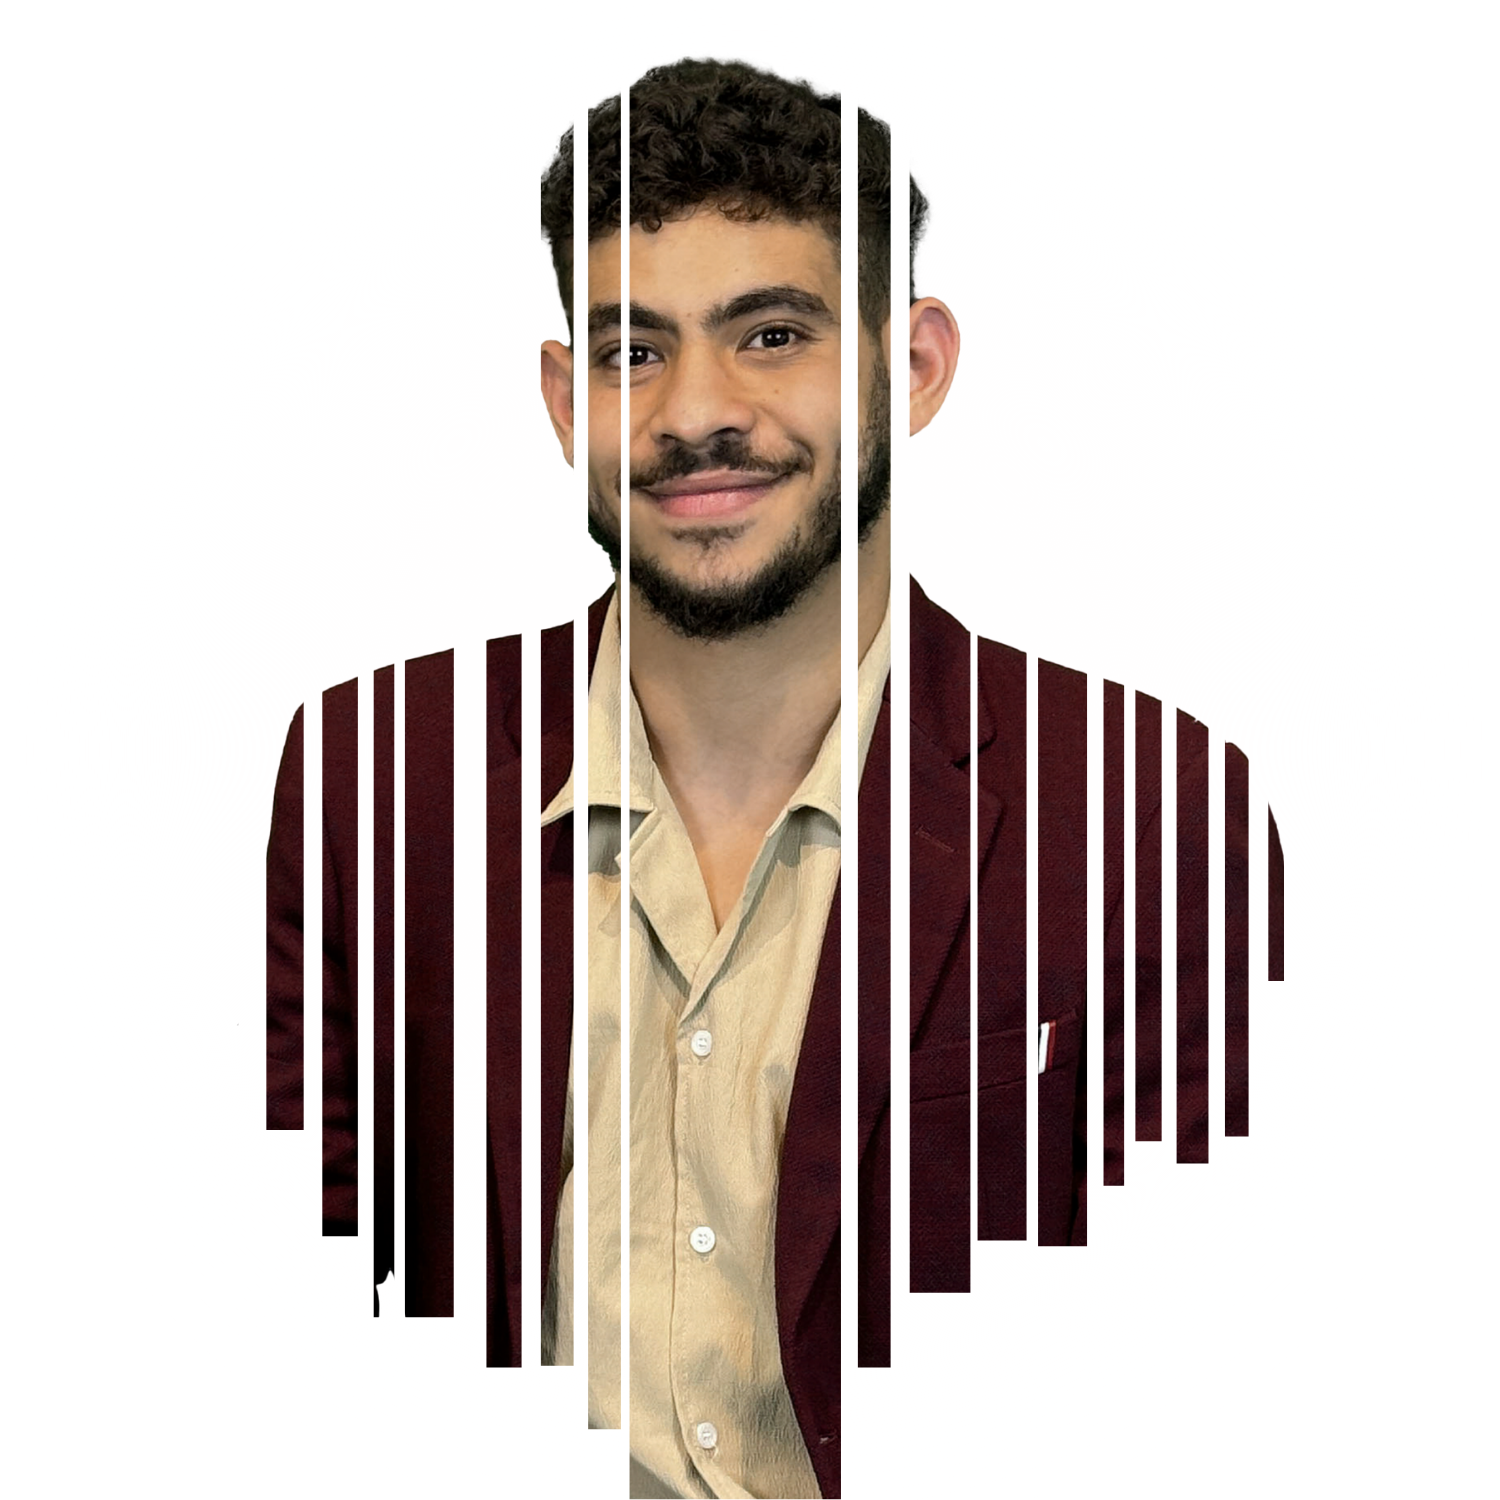
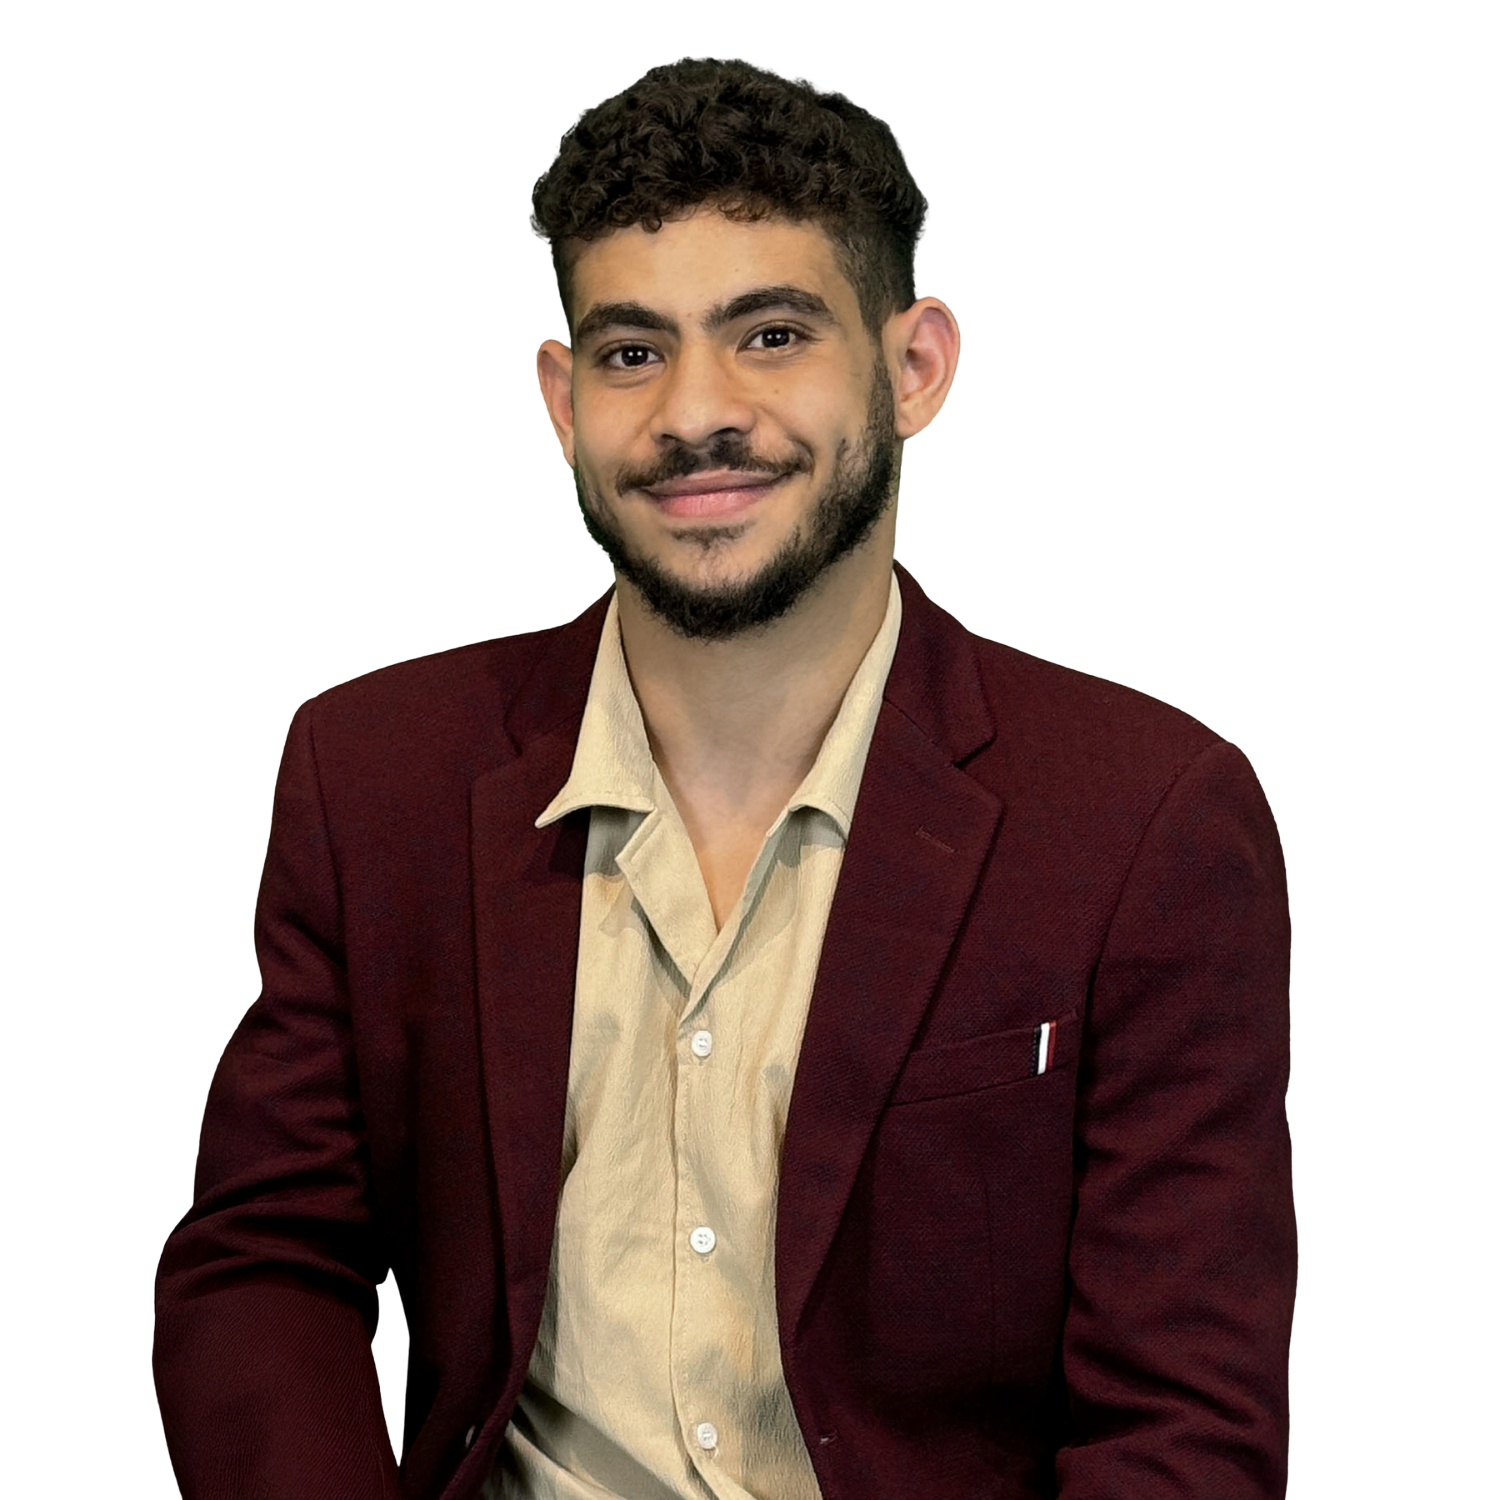
v2.0

Changed region(s): [[0.092, 0.0613, 0.4293, 1.0], [0.552, 0.0613, 0.8893, 1.0], [0.46, 0.0307, 0.5213, 0.0613]]

diff --git a/index.html b/index.html
@@ -442,7 +442,7 @@ nav {
 }
 
 .hero-title {
-    font-size: 4rem;
+    font-size: 5rem;
     margin-bottom: 30px;
     color: var(--soft-ivory);
     font-weight: 600;
@@ -464,6 +464,8 @@ nav {
     opacity: 0.9;
     position: relative;
     z-index: 10;
+    letter-spacing: 2px;
+    text-transform: uppercase;
 }
 
 .cta-button {
@@ -682,6 +684,108 @@ nav {
     justify-content: center;
     align-items: center;
 }
+
+/* ✨ CALM & MINIMAL PROFILE CARD ✨ */
+.holo-card {
+    position: relative;
+    width: 300px;
+    height: 380px;
+    border-radius: 24px;
+    overflow: hidden;
+    background: 
+        linear-gradient(135deg, 
+            rgba(42, 46, 51, 0.95) 0%, 
+            rgba(74, 38, 115, 0.1) 100%);
+    backdrop-filter: blur(10px);
+    border: 1px solid rgba(236, 233, 226, 0.1);
+    box-shadow: 
+        0 8px 32px rgba(0, 0, 0, 0.12),
+        0 2px 8px rgba(0, 0, 0, 0.08);
+    transition: all 0.6s cubic-bezier(0.25, 0.46, 0.45, 0.94);
+    animation: gentleBreath 6s ease-in-out infinite;
+}
+
+@keyframes gentleBreath {
+    0%, 100% { 
+        transform: scale(1);
+        box-shadow: 
+            0 8px 32px rgba(0, 0, 0, 0.12),
+            0 2px 8px rgba(0, 0, 0, 0.08);
+    }
+    50% { 
+        transform: scale(1.01);
+        box-shadow: 
+            0 12px 40px rgba(0, 0, 0, 0.15),
+            0 4px 12px rgba(0, 0, 0, 0.1);
+    }
+}
+
+.holo-photo {
+    width: 100%;
+    height: 100%;
+    object-fit: cover;
+    opacity: 0.95;
+    transition: all 0.3s ease;
+    filter: saturate(0.9) brightness(1.1);
+}
+
+/* Minimal floating particles */
+.particle {
+    position: absolute;
+    width: 3px;
+    height: 3px;
+    background: radial-gradient(circle, rgba(236, 233, 226, 0.6) 0%, transparent 70%);
+    border-radius: 50%;
+    pointer-events: none;
+    z-index: 2;
+}
+
+.particle:nth-child(1) {
+    top: 20%;
+    left: 15%;
+    animation: gentleFloat 8s ease-in-out infinite;
+}
+
+.particle:nth-child(2) {
+    top: 60%;
+    right: 20%;
+    animation: gentleFloat 10s ease-in-out infinite 2s;
+}
+
+.particle:nth-child(3) {
+    bottom: 30%;
+    left: 25%;
+    animation: gentleFloat 12s ease-in-out infinite 4s;
+}
+
+@keyframes gentleFloat {
+    0%, 100% { 
+        transform: translateY(0px) translateX(0px);
+        opacity: 0.3;
+    }
+    50% { 
+        transform: translateY(-15px) translateX(5px);
+        opacity: 0.7;
+    }
+}
+
+.holo-card:hover {
+    transform: translateY(-8px) scale(1.02);
+    box-shadow: 
+        0 20px 60px rgba(0, 0, 0, 0.15),
+        0 8px 24px rgba(0, 0, 0, 0.1),
+        0 0 0 1px rgba(236, 233, 226, 0.1);
+}
+
+.holo-card:hover .holo-photo {
+    opacity: 1;
+    filter: saturate(1.05) brightness(1.1);
+    transform: scale(1.01);
+}
+
+
+
+
 
 /* Skills Section */
 .skills {
@@ -1877,8 +1981,12 @@ footer {
             <p>Whether it’s crafting interfaces, scripting interactivity, or solving creative challenges, my goal is to build engaging, polished, and purposeful experiences that stand out in today’s fast-moving digital world.</p>
         </div>
         <div class="about-image">
-            <div class="about-avatar">
-                <img src="assets/pp2.png" alt="Profile Picture" style="width: 100%; height: 100%; object-fit: cover; border-radius: 20px; box-shadow: 0 10px 30px rgba(0, 0, 0, 0.3);">
+            <!-- Holographic Profile Card -->
+            <div class="holo-card">
+                <div class="particle"></div>
+                <div class="particle"></div>
+                <div class="particle"></div>
+                <img src="assets/pp2.png" alt="Zeyad Portrait" class="holo-photo">
             </div>
         </div>
     </div>
